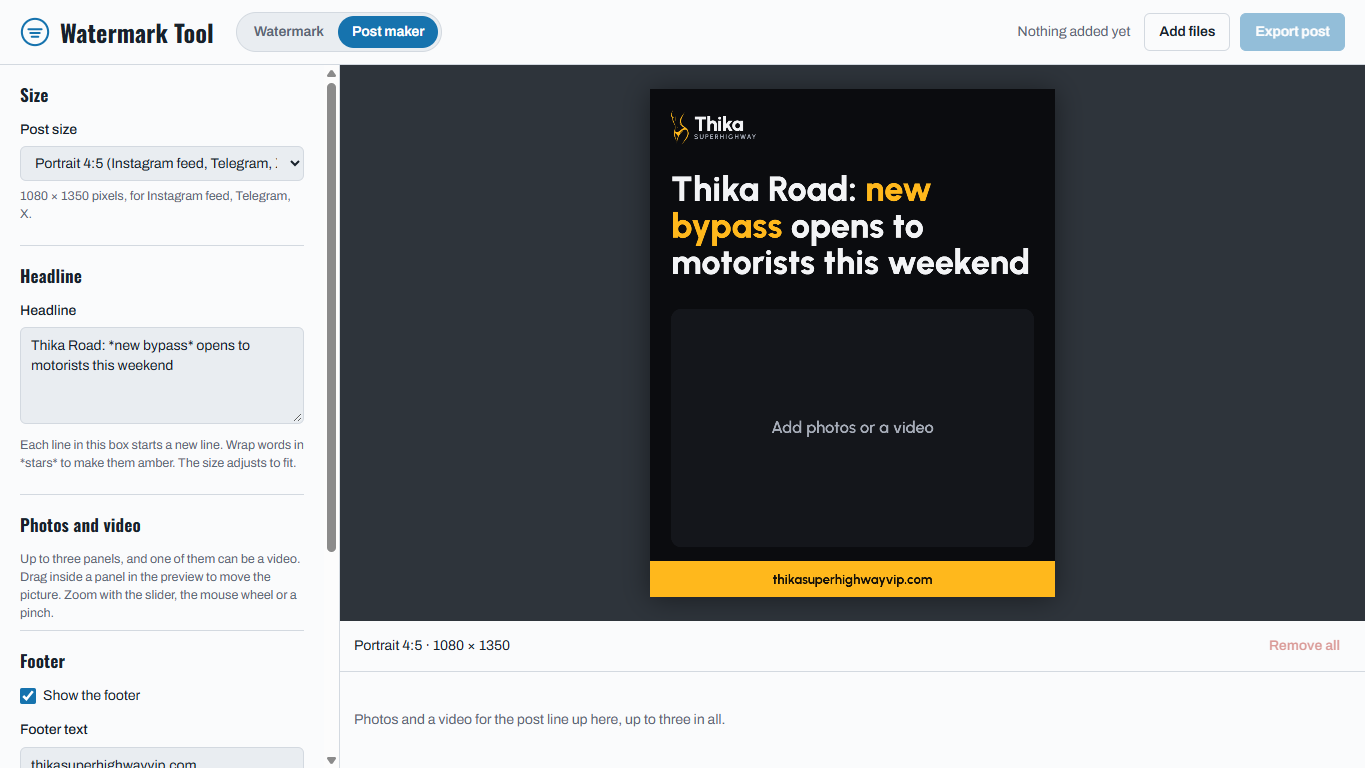
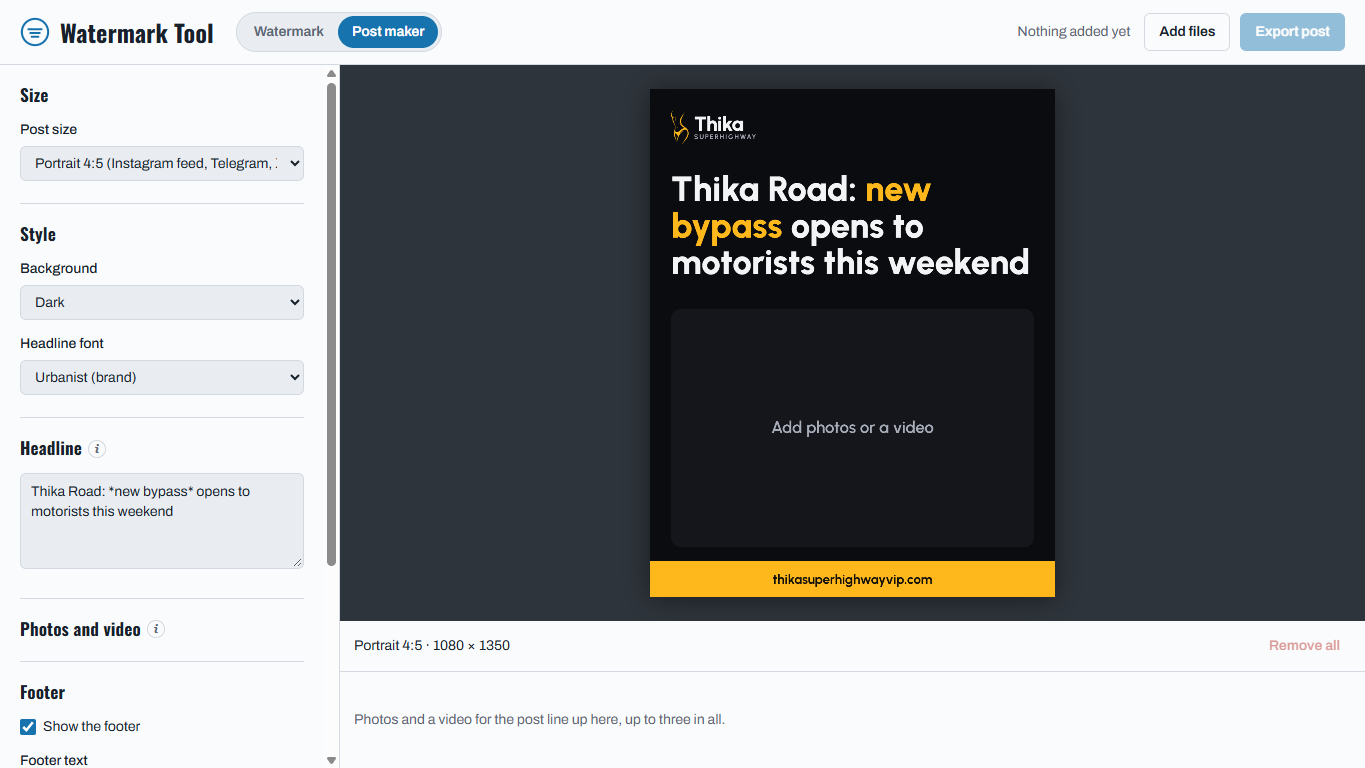
Update the README for the new Post maker options

Changed region(s): [[0.0, 0.5625, 0.2462, 1.0], [0.0, 0.3438, 0.1846, 0.5], [0.0, 0.25, 0.2154, 0.3125]]

diff --git a/README.md b/README.md
@@ -34,7 +34,8 @@ A second mode, switched from the top bar, turns a headline and up to three photo
 
 - **Four sizes**: portrait 4:5 (1080 x 1350), square (1080 x 1080), landscape 16:9 (1600 x 900) and story 9:16 (1080 x 1920), each with its own layout of logo, headline, panels and footer
 - **Headline** in the brand typeface that sizes itself to fit; words wrapped in `*stars*` turn amber, and a warning appears if the text is too long even at the smallest size
-- **Panels** with rounded corners: drag to move the picture inside, zoom with a slider, the mouse wheel or a pinch, reorder and remove. Each crop survives a change of size
+- **Panels** with rounded corners: drag to move the picture inside, zoom in or out with a slider, the mouse wheel or a pinch (out as far as the whole picture), reorder and remove. Each crop survives a change of size
+- **Style**: the dark brand background or a light one, and a choice of five headline fonts
 - **One video per post**: a post with a video exports as an MP4 the length of the clip, with its sound; without one it exports as JPG or PNG at the exact size
 - **Footer** strip with the site address or any other text, and an optional watermark using the Watermark mode's settings
 - Each mode keeps its own files and settings, so switching back and forth loses nothing
